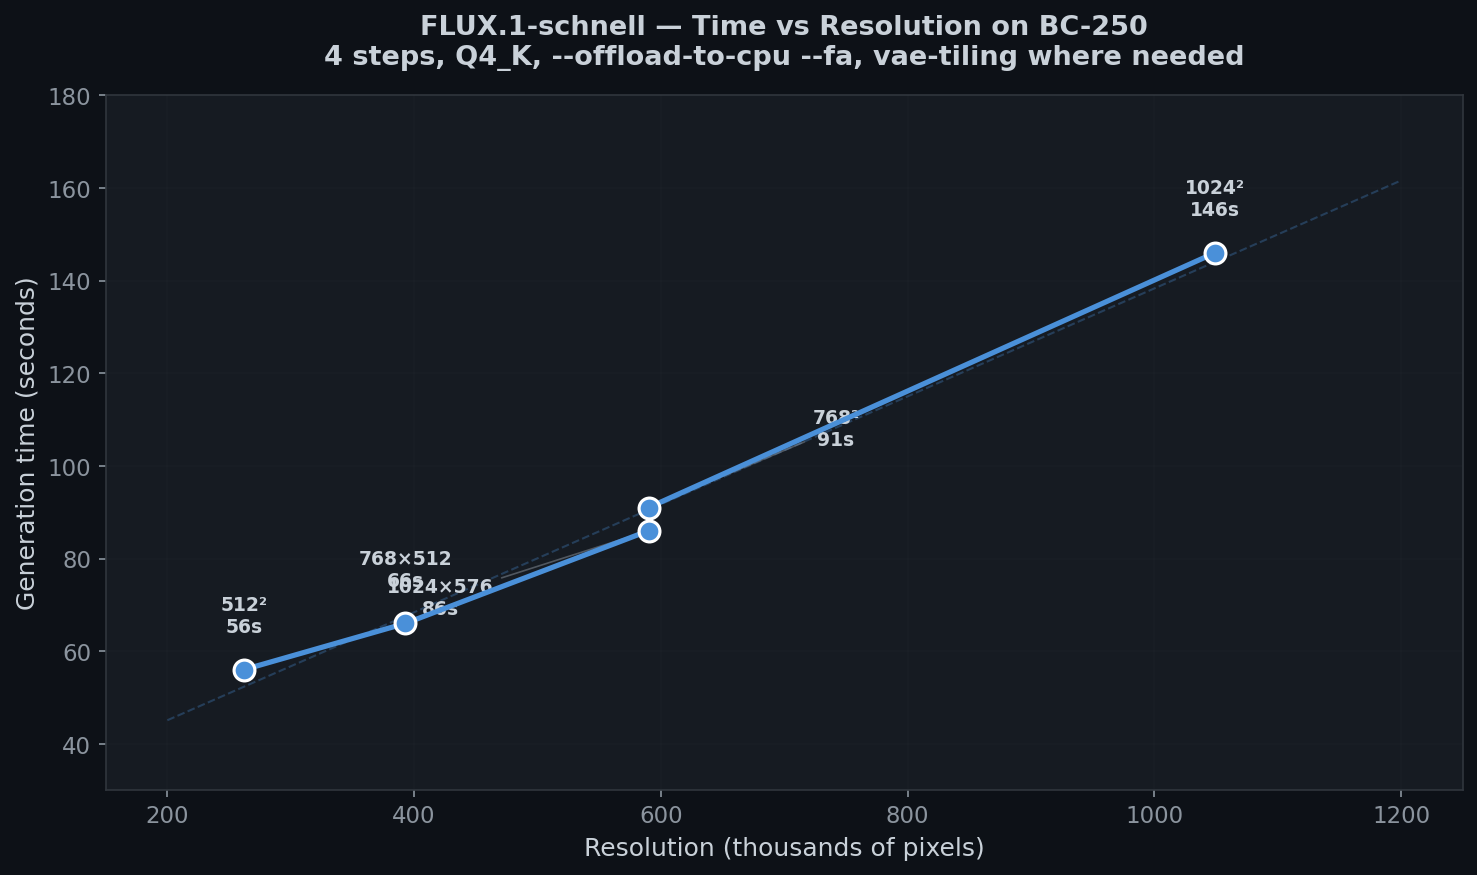
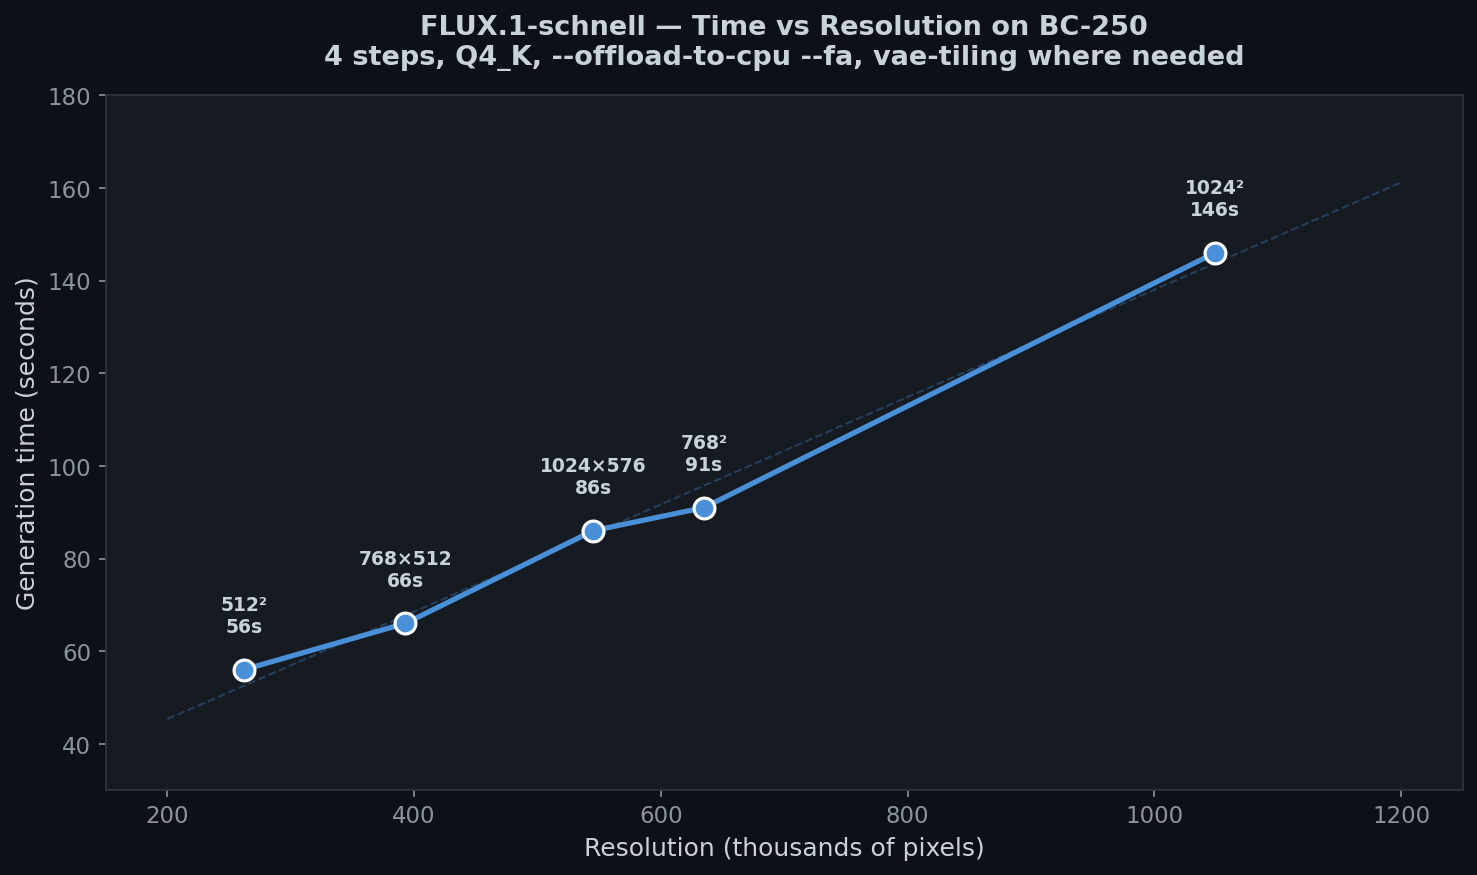
fix: nudge overlapping chart points apart for clean labels

Changed region(s): [[0.2492, 0.4011, 0.6852, 0.7097], [0.7163, 0.3086, 0.8097, 0.3703], [0.6852, 0.3703, 0.7163, 0.4011]]

diff --git a/benchmarks/generate-sd-charts.py b/benchmarks/generate-sd-charts.py
@@ -268,7 +268,8 @@ def chart_breakdown():
 def chart_resolution():
     """Line chart: FLUX.1-schnell time vs resolution."""
     resolutions = ["512²", "768×512", "1024×576", "768²", "1024²"]
-    pixels_k = [262, 393, 590, 590, 1049]  # in thousands
+    # Nudge the two 590K points apart so labels don't collide
+    pixels_k = [262, 393, 545, 635, 1049]  # real: 590 & 590, display: 545 & 635
     times = [56, 66, 86, 91, 146]
 
     fig, ax = plt.subplots(figsize=(10, 6))
@@ -277,22 +278,12 @@ def chart_resolution():
             markersize=10, markeredgecolor='white', markeredgewidth=1.5,
             zorder=5)
 
-    # Custom offsets to avoid overlapping labels at same x (768² and 1024×576)
-    offsets = {
-        "512²":     (0, 18),
-        "768×512":  (0, 18),
-        "1024×576": (-100, -40),  # well below-left
-        "768²":     (90, 30),     # well above-right
-        "1024²":    (0, 18),
-    }
+    # Every label directly above its point, no offsets needed
     for px, t, res in zip(pixels_k, times, resolutions):
-        ox, oy = offsets[res]
         ax.annotate(f"{res}\n{t}s", (px, t),
-                    textcoords="offset points", xytext=(ox, oy),
+                    textcoords="offset points", xytext=(0, 18),
                     ha='center', fontsize=9, fontweight='bold',
-                    color='#c9d1d9',
-                    arrowprops=dict(arrowstyle='-', color='#8b949e',
-                                    lw=0.8, alpha=0.5) if abs(ox) > 20 else None)
+                    color='#c9d1d9')
 
     # Trend line
     z = np.polyfit(pixels_k, times, 1)
